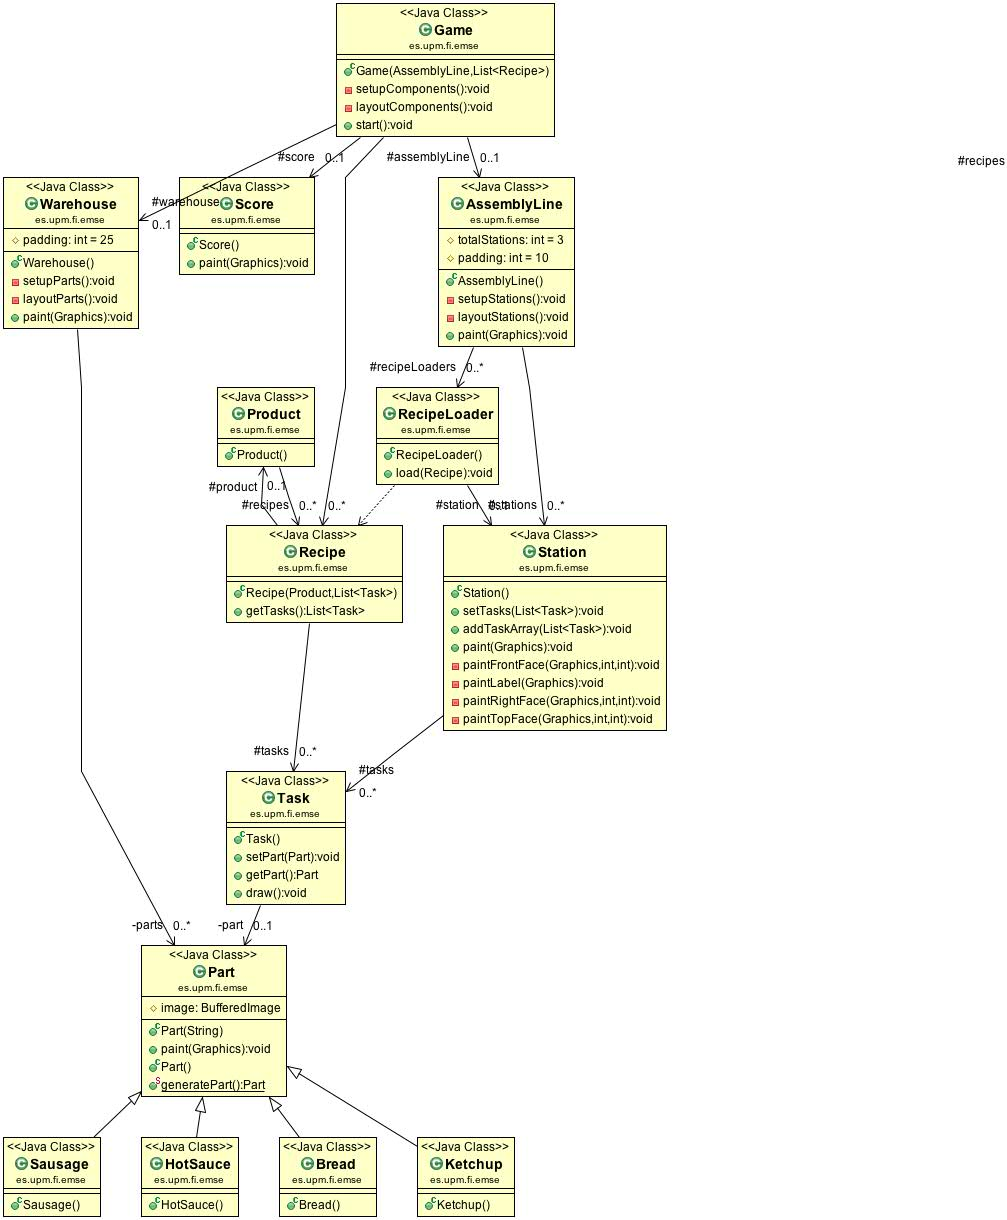
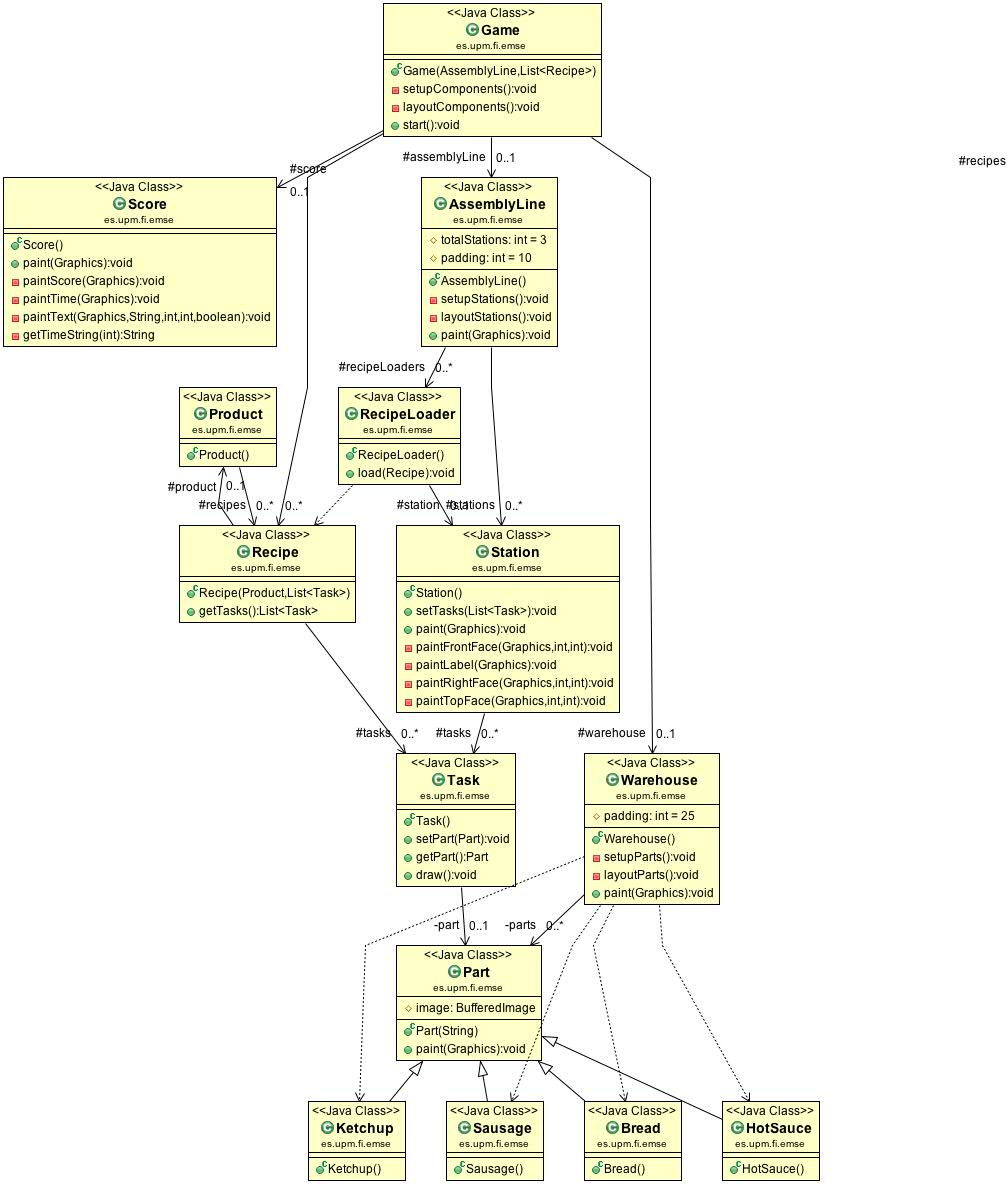
Add simple Score rendering logic

Changed region(s): [[0.0, 0.0, 0.7388, 1.0], [0.708, 0.9062, 0.8312, 1.0], [0.9543, 0.125, 1.0, 0.1562]]

diff --git a/src/main/java/es/upm/fi/emse/Score.java b/src/main/java/es/upm/fi/emse/Score.java
@@ -2,18 +2,56 @@ package es.upm.fi.emse;
 
 import java.awt.Color;
 import java.awt.Component;
+import java.awt.Font;
 import java.awt.Graphics;
+import java.awt.geom.Rectangle2D;
 
 public class Score extends Component {
 
 	private static final long serialVersionUID = -6047192677652438205L;
 
+	private int padding = 10;
+	private long currentScore = 1000;
+	private int currentTime = 30;
+
 	public void paint(Graphics g) {
 		g.setColor(Color.BLUE);
 
-		int padding = 10;
 		g.drawRect(padding, padding, getWidth() - (padding * 2), getHeight() - (padding * 2));
 		g.drawString("SCORE", padding * 2, padding * 2);
+
+		g.setColor(Color.BLACK);
+
+		Font font = new Font("Arial", Font.PLAIN, 36);
+		g.setFont(font);
+
+		paintScore(g);
+		paintTime(g);
+	}
+
+	private void paintScore(Graphics g) {
+		paintText(g, currentScore + "", padding * 2, padding * 2, false);
+	}
+
+	private void paintTime(Graphics g) {
+		String text = getTimeString(currentTime);
+		paintText(g, text, getWidth() - padding * 2 , padding * 2, true);
+	}
+
+	private void paintText(Graphics g, String text, int x, int y, boolean rightAligned) {
+		Rectangle2D stringBounds = g.getFontMetrics().getStringBounds(text, g);
+		int stringWidth  = (int) stringBounds.getWidth();
+		int stringHeight = (int) stringBounds.getHeight();
+
+		if (rightAligned) {
+			x -= stringWidth;
+		}
+
+		g.drawString(text, x, y + stringHeight);
+	}
+
+	private String getTimeString(int time) {
+		return String.format("%02d:%02d", time / 60, time % 60);
 	}
 
 }
